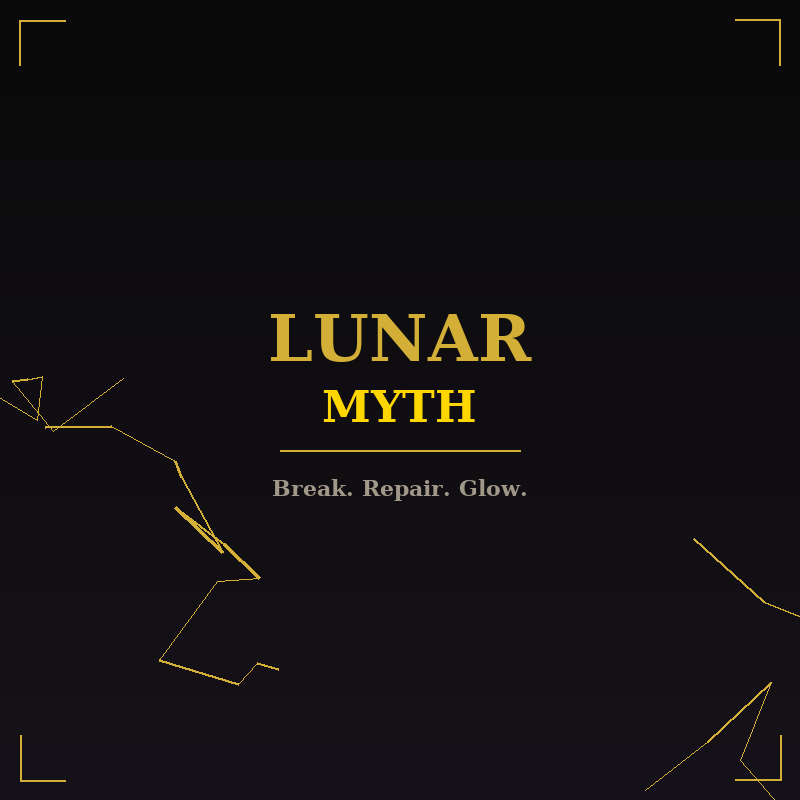
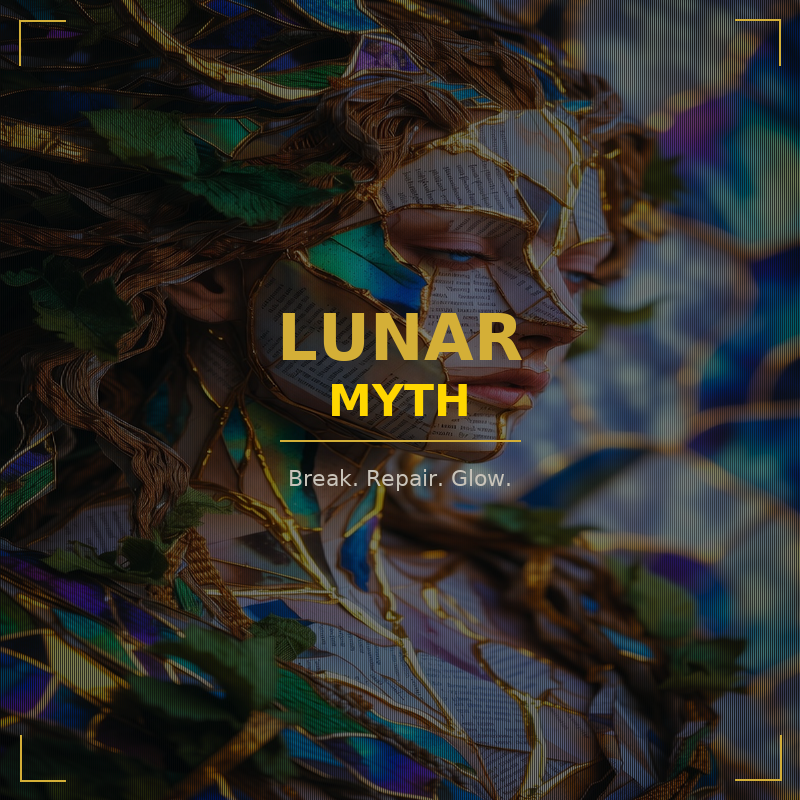
feat: regenerate covers with real reference art + gallery images in tier bundles
- Replaced all covers in covers/ with versions using bible-image-refs/ artwork
- Added gallery/ folder with 25 showcase images for product previews
- Updated tier ZIPs to include gallery images:
  - Seed: 5 gallery images
  - Full Moon: all gallery images
  - Celestial: all gallery images
- New tier sizes: Seed 6.0MB, Full Moon 17.2MB, Celestial 17.2MB

diff --git a/gumroad-bundle/generate-covers-from-refs.py b/gumroad-bundle/generate-covers-from-refs.py
@@ -1,0 +1,314 @@
+#!/usr/bin/env python3
+"""Generate branded covers using actual reference images."""
+
+from PIL import Image, ImageDraw, ImageFont, ImageEnhance, ImageFilter
+import random
+import os
+
+random.seed(42)
+
+REF_DIR = "../bible-image-refs"
+OUT_DIR = "covers-with-refs"
+os.makedirs(OUT_DIR, exist_ok=True)
+
+GOLD = (212, 175, 55)
+GOLD_LIGHT = (255, 215, 0)
+CREAM = (245, 245, 220)
+TEXT_DIM = (200, 195, 185)
+DARK_OVERLAY = (10, 10, 10)
+
+
+def get_font(style, size):
+    paths = {
+        "bold": [
+            "/usr/share/fonts/truetype/dejavu/DejaVuSans-Bold.ttf",
+            "/usr/share/fonts/truetype/liberation/LiberationSans-Bold.ttf",
+        ],
+        "regular": [
+            "/usr/share/fonts/truetype/dejavu/DejaVuSans.ttf",
+            "/usr/share/fonts/truetype/liberation/LiberationSans-Regular.ttf",
+        ],
+        "italic": [
+            "/usr/share/fonts/truetype/dejavu/DejaVuSansMono-Oblique.ttf",
+            "/usr/share/fonts/truetype/liberation/LiberationSans-Italic.ttf",
+        ],
+    }
+    for p in paths.get(style, paths["regular"]):
+        if os.path.exists(p):
+            try:
+                return ImageFont.truetype(p, size)
+            except:
+                pass
+    return ImageFont.load_default()
+
+
+def load_random_ref(size=None):
+    """Load a random reference image, optionally resize."""
+    refs = [f for f in os.listdir(REF_DIR) if f.endswith('.jpg')]
+    ref_path = os.path.join(REF_DIR, random.choice(refs))
+    img = Image.open(ref_path).convert('RGB')
+    if size:
+        img = img.resize(size, Image.LANCZOS)
+    return img
+
+
+def add_dark_gradient(img, direction='bottom'):
+    """Add a dark gradient overlay for text readability."""
+    w, h = img.size
+    overlay = Image.new('RGBA', (w, h), (0, 0, 0, 0))
+    draw = ImageDraw.Draw(overlay)
+    
+    if direction == 'bottom':
+        for y in range(h):
+            alpha = int(180 * (y / h) ** 2)  # stronger at bottom
+            draw.line([(0, y), (w, y)], fill=(*DARK_OVERLAY, alpha))
+    elif direction == 'center':
+        mid = h // 2
+        for y in range(h):
+            dist = abs(y - mid) / mid
+            alpha = int(120 * (1 - dist))
+            draw.line([(0, y), (w, y)], fill=(*DARK_OVERLAY, alpha))
+    elif direction == 'top':
+        for y in range(h):
+            alpha = int(180 * ((h - y) / h) ** 2)
+            draw.line([(0, y), (w, y)], fill=(*DARK_OVERLAY, alpha))
+    elif direction == 'vignette':
+        cx, cy = w // 2, h // 2
+        max_dist = max(cx, cy)
+        for y in range(h):
+            for x in range(0, w, 2):  # step 2 for speed
+                dist = ((x - cx) ** 2 + (y - cy) ** 2) ** 0.5
+                alpha = int(160 * (dist / max_dist) ** 1.5)
+                if alpha > 0:
+                    draw.point((x, y), fill=(*DARK_OVERLAY, min(alpha, 200)))
+    
+    return Image.alpha_composite(img.convert('RGBA'), overlay).convert('RGB')
+
+
+def draw_text_with_glow(draw, text, pos, font, fill, glow_color=(212, 175, 55), glow_radius=3):
+    """Draw text with subtle glow effect."""
+    x, y = pos
+    # Glow layers
+    for r in range(glow_radius, 0, -1):
+        alpha = int(80 * (r / glow_radius))
+        glow_img = Image.new('RGBA', (w := draw.im.size[0], h := draw.im.size[1]), (0, 0, 0, 0))
+        glow_draw = ImageDraw.Draw(glow_img)
+        glow_draw.text((x, y), text, font=font, fill=(*glow_color, alpha))
+        glow_img = glow_img.filter(ImageFilter.GaussianBlur(radius=r * 2))
+        # Composite glow under text happens implicitly since we draw text on top
+    draw.text((x, y), text, fill=fill, font=font)
+
+
+def generate_book_cover():
+    """800x1200 book cover with real art background."""
+    w, h = 800, 1200
+    img = load_random_ref((w, h))
+    
+    # Darken for text
+    enhancer = ImageEnhance.Brightness(img)
+    img = enhancer.enhance(0.6)
+    img = add_dark_gradient(img, 'bottom')
+    
+    draw = ImageDraw.Draw(img)
+    
+    # Corner brackets
+    s = 50
+    t = 2
+    draw.line([(20, 20 + s), (20, 20), (20 + s, 20)], fill=GOLD, width=t)
+    draw.line([(w - 20, 20 + s), (w - 20, 20), (w - 20 - s, 20)], fill=GOLD, width=t)
+    draw.line([(20, h - 20 - s), (20, h - 20), (20 + s, h - 20)], fill=GOLD, width=t)
+    draw.line([(w - 20, h - 20 - s), (w - 20, h - 20), (w - 20 - s, h - 20)], fill=GOLD, width=t)
+    
+    title_font = get_font("bold", 54)
+    subtitle_font = get_font("bold", 36)
+    tag_font = get_font("regular", 22)
+    creator_font = get_font("regular", 20)
+    small_font = get_font("regular", 18)
+    
+    # Title
+    title = "LUNAR MYTH"
+    bbox = draw.textbbox((0, 0), title, font=title_font)
+    tw = bbox[2] - bbox[0]
+    draw.text(((w - tw) // 2, 340), title, fill=GOLD, font=title_font)
+    
+    subtitle = "KINTSUGI BIBLE"
+    bbox = draw.textbbox((0, 0), subtitle, font=subtitle_font)
+    tw = bbox[2] - bbox[0]
+    draw.text(((w - tw) // 2, 410), subtitle, fill=GOLD_LIGHT, font=subtitle_font)
+    
+    # Line
+    draw.line([(w // 2 - 140, 470), (w // 2 + 140, 470)], fill=GOLD, width=2)
+    
+    tagline = "357+ Hyper-Tactile Mythpunk Prompts"
+    bbox = draw.textbbox((0, 0), tagline, font=tag_font)
+    tw = bbox[2] - bbox[0]
+    draw.text(((w - tw) // 2, 500), tagline, fill=TEXT_DIM, font=tag_font)
+    
+    tagline2 = "& Complete Collage System"
+    bbox = draw.textbbox((0, 0), tagline2, font=tag_font)
+    tw = bbox[2] - bbox[0]
+    draw.text(((w - tw) // 2, 530), tagline2, fill=TEXT_DIM, font=tag_font)
+    
+    creator = "By Jennipher Troup"
+    bbox = draw.textbbox((0, 0), creator, font=creator_font)
+    tw = bbox[2] - bbox[0]
+    draw.text(((w - tw) // 2, 600), creator, fill=GOLD, font=creator_font)
+    
+    bottom = "Break. Repair. Glow. Repeat."
+    bbox = draw.textbbox((0, 0), bottom, font=small_font)
+    tw = bbox[2] - bbox[0]
+    draw.text(((w - tw) // 2, h - 90), bottom, fill=TEXT_DIM, font=small_font)
+    
+    return img
+
+
+def generate_thumbnail():
+    """800x800 square thumbnail."""
+    w, h = 800, 800
+    img = load_random_ref((w, h))
+    
+    enhancer = ImageEnhance.Brightness(img)
+    img = enhancer.enhance(0.5)
+    img = add_dark_gradient(img, 'vignette')
+    
+    draw = ImageDraw.Draw(img)
+    
+    s = 45
+    t = 2
+    draw.line([(20, 20 + s), (20, 20), (20 + s, 20)], fill=GOLD, width=t)
+    draw.line([(w - 20, 20 + s), (w - 20, 20), (w - 20 - s, 20)], fill=GOLD, width=t)
+    draw.line([(20, h - 20 - s), (20, h - 20), (20 + s, h - 20)], fill=GOLD, width=t)
+    draw.line([(w - 20, h - 20 - s), (w - 20, h - 20), (w - 20 - s, h - 20)], fill=GOLD, width=t)
+    
+    title_font = get_font("bold", 64)
+    sub_font = get_font("bold", 44)
+    tag_font = get_font("regular", 22)
+    
+    title = "LUNAR"
+    bbox = draw.textbbox((0, 0), title, font=title_font)
+    tw = bbox[2] - bbox[0]
+    draw.text(((w - tw) // 2, 300), title, fill=GOLD, font=title_font)
+    
+    subtitle = "MYTH"
+    bbox = draw.textbbox((0, 0), subtitle, font=sub_font)
+    tw = bbox[2] - bbox[0]
+    draw.text(((w - tw) // 2, 375), subtitle, fill=GOLD_LIGHT, font=sub_font)
+    
+    draw.line([(w // 2 - 120, 440), (w // 2 + 120, 440)], fill=GOLD, width=2)
+    
+    tag = "Break. Repair. Glow."
+    bbox = draw.textbbox((0, 0), tag, font=tag_font)
+    tw = bbox[2] - bbox[0]
+    draw.text(((w - tw) // 2, 465), tag, fill=TEXT_DIM, font=tag_font)
+    
+    return img
+
+
+def generate_banner():
+    """1200x400 wide banner."""
+    w, h = 1200, 400
+    img = load_random_ref((w, h))
+    
+    enhancer = ImageEnhance.Brightness(img)
+    img = enhancer.enhance(0.5)
+    img = add_dark_gradient(img, 'center')
+    
+    draw = ImageDraw.Draw(img)
+    
+    s = 35
+    t = 2
+    draw.line([(20, 20 + s), (20, 20), (20 + s, 20)], fill=GOLD, width=t)
+    draw.line([(w - 20, 20 + s), (w - 20, 20), (w - 20 - s, 20)], fill=GOLD, width=t)
+    draw.line([(20, h - 20 - s), (20, h - 20), (20 + s, h - 20)], fill=GOLD, width=t)
+    draw.line([(w - 20, h - 20 - s), (w - 20, h - 20), (w - 20 - s, h - 20)], fill=GOLD, width=t)
+    
+    title_font = get_font("bold", 42)
+    sub_font = get_font("bold", 26)
+    tag_font = get_font("regular", 17)
+    
+    title = "LUNAR MYTH KINTSUGI BIBLE"
+    bbox = draw.textbbox((0, 0), title, font=title_font)
+    tw = bbox[2] - bbox[0]
+    draw.text(((w - tw) // 2, 130), title, fill=GOLD, font=title_font)
+    
+    subtitle = "The Complete Creative System"
+    bbox = draw.textbbox((0, 0), subtitle, font=sub_font)
+    tw = bbox[2] - bbox[0]
+    draw.text(((w - tw) // 2, 185), subtitle, fill=GOLD_LIGHT, font=sub_font)
+    
+    draw.line([(w // 2 - 180, 230), (w // 2 + 180, 230)], fill=GOLD, width=2)
+    
+    tag = "By Jennipher Troup  --  357+ Prompts  --  Break. Repair. Glow. Repeat."
+    bbox = draw.textbbox((0, 0), tag, font=tag_font)
+    tw = bbox[2] - bbox[0]
+    draw.text(((w - tw) // 2, 250), tag, fill=TEXT_DIM, font=tag_font)
+    
+    return img
+
+
+def generate_tier_badge(tier_name, price, color):
+    """400x400 tier badge with art background."""
+    w, h = 400, 400
+    img = load_random_ref((w, h))
+    
+    enhancer = ImageEnhance.Brightness(img)
+    img = enhancer.enhance(0.4)
+    img = add_dark_gradient(img, 'vignette')
+    
+    draw = ImageDraw.Draw(img)
+    
+    draw.rectangle([15, 15, w - 15, h - 15], outline=(*color, 150), width=2)
+    
+    s = 28
+    t = 2
+    draw.line([(20, 20 + s), (20, 20), (20 + s, 20)], fill=color, width=t)
+    draw.line([(w - 20, 20 + s), (w - 20, 20), (w - 20 - s, 20)], fill=color, width=t)
+    draw.line([(20, h - 20 - s), (20, h - 20), (20 + s, h - 20)], fill=color, width=t)
+    draw.line([(w - 20, h - 20 - s), (w - 20, h - 20), (w - 20 - s, h - 20)], fill=color, width=t)
+    
+    tier_font = get_font("bold", 24)
+    price_font = get_font("bold", 48)
+    name_font = get_font("regular", 19)
+    
+    emoji = "Seed" if "Seed" in tier_name else "Full" if "Full" in tier_name else "Celestial"
+    tname = f"{emoji} {tier_name}"
+    bbox = draw.textbbox((0, 0), tname, font=name_font)
+    tw = bbox[2] - bbox[0]
+    draw.text(((w - tw) // 2, 110), tname, fill=color, font=name_font)
+    
+    bbox = draw.textbbox((0, 0), price, font=price_font)
+    tw = bbox[2] - bbox[0]
+    draw.text(((w - tw) // 2, 155), price, fill=CREAM, font=price_font)
+    
+    draw.line([(w // 2 - 55, 220), (w // 2 + 55, 220)], fill=(*color, 120), width=2)
+    
+    cta = "Get Access"
+    bbox = draw.textbbox((0, 0), cta, font=tier_font)
+    tw = bbox[2] - bbox[0]
+    draw.text(((w - tw) // 2, 243), cta, fill=color, font=tier_font)
+    
+    return img
+
+
+if __name__ == "__main__":
+    print("Generating covers with real reference art...")
+    
+    generate_book_cover().save(os.path.join(OUT_DIR, "cover-book-800x1200.png"))
+    print("  Book cover")
+    
+    generate_thumbnail().save(os.path.join(OUT_DIR, "thumbnail-800x800.png"))
+    print("  Thumbnail")
+    
+    generate_banner().save(os.path.join(OUT_DIR, "banner-1200x400.png"))
+    print("  Banner")
+    
+    generate_tier_badge("Seed Tier", "$37", GOLD).save(os.path.join(OUT_DIR, "tier-seed-400x400.png"))
+    print("  Seed badge")
+    
+    generate_tier_badge("Full Moon", "$67", GOLD_LIGHT).save(os.path.join(OUT_DIR, "tier-fullmoon-400x400.png"))
+    print("  Full Moon badge")
+    
+    generate_tier_badge("Celestial", "$127", (32, 178, 170)).save(os.path.join(OUT_DIR, "tier-celestial-400x400.png"))
+    print("  Celestial badge")
+    
+    print(f"\nDone! Saved to {OUT_DIR}/")

diff --git a/gumroad-bundle/repackage-tiers.py b/gumroad-bundle/repackage-tiers.py
@@ -1,0 +1,73 @@
+#!/usr/bin/env python3
+"""Repackage tier ZIPs with new covers + gallery images"""
+
+import zipfile, os, glob, random
+
+base = "/home/wildfiremelody/lunar-myth-kintsugi-bible/gumroad-bundle"
+
+# Clean old zips
+for f in glob.glob(f"{base}/tier-zips/*.zip"):
+    os.remove(f)
+    print(f"Removed old: {os.path.basename(f)}")
+
+random.seed(42)
+
+all_prompts = sorted(glob.glob(f"{base}/prompts/*.txt"))
+all_textures = sorted(glob.glob(f"{base}/textures/*"))
+all_gallery = sorted(glob.glob(f"{base}/gallery/*.jpg"))
+
+os.makedirs(f"{base}/tier-zips", exist_ok=True)
+
+# Seed Tier ($37): covers, quickstart, 1 prompt pack, 5 textures, 5 gallery
+with zipfile.ZipFile(f"{base}/tier-zips/lunar-myth-kintsugi-bible-seed.zip", 'w', zipfile.ZIP_DEFLATED) as zf:
+    for f in glob.glob(f"{base}/covers/*"):
+        zf.write(f, f"covers/{os.path.basename(f)}")
+    zf.write(f"{base}/pdfs/README_Quickstart.pdf", "pdfs/README_Quickstart.pdf")
+    if all_prompts:
+        zf.write(all_prompts[0], f"prompts/{os.path.basename(all_prompts[0])}")
+    for f in random.sample(all_textures, min(5, len(all_textures))):
+        zf.write(f, f"textures/{os.path.basename(f)}")
+    for f in random.sample(all_gallery, min(5, len(all_gallery))):
+        zf.write(f, f"gallery/{os.path.basename(f)}")
+
+seed_size = os.path.getsize(f"{base}/tier-zips/lunar-myth-kintsugi-bible-seed.zip")
+print(f"Seed tier: {seed_size/1024/1024:.2f} MB")
+
+# Full Moon Tier ($67): Everything except LoRA notebook
+with zipfile.ZipFile(f"{base}/tier-zips/lunar-myth-kintsugi-bible-fullmoon.zip", 'w', zipfile.ZIP_DEFLATED) as zf:
+    for f in glob.glob(f"{base}/covers/*"):
+        zf.write(f, f"covers/{os.path.basename(f)}")
+    for f in glob.glob(f"{base}/pdfs/*.pdf"):
+        zf.write(f, f"pdfs/{os.path.basename(f)}")
+    for f in all_prompts:
+        zf.write(f, f"prompts/{os.path.basename(f)}")
+    for f in all_textures:
+        zf.write(f, f"textures/{os.path.basename(f)}")
+    for f in all_gallery:
+        zf.write(f, f"gallery/{os.path.basename(f)}")
+    for f in glob.glob(f"{base}/workflows/*.json"):
+        zf.write(f, f"workflows/{os.path.basename(f)}")
+
+fullmoon_size = os.path.getsize(f"{base}/tier-zips/lunar-myth-kintsugi-bible-fullmoon.zip")
+print(f"Full Moon tier: {fullmoon_size/1024/1024:.2f} MB")
+
+# Celestial Tier ($127): Everything including LoRA notebook
+with zipfile.ZipFile(f"{base}/tier-zips/lunar-myth-kintsugi-bible-celestial.zip", 'w', zipfile.ZIP_DEFLATED) as zf:
+    for f in glob.glob(f"{base}/covers/*"):
+        zf.write(f, f"covers/{os.path.basename(f)}")
+    for f in glob.glob(f"{base}/pdfs/*.pdf"):
+        zf.write(f, f"pdfs/{os.path.basename(f)}")
+    for f in all_prompts:
+        zf.write(f, f"prompts/{os.path.basename(f)}")
+    for f in all_textures:
+        zf.write(f, f"textures/{os.path.basename(f)}")
+    for f in all_gallery:
+        zf.write(f, f"gallery/{os.path.basename(f)}")
+    for f in glob.glob(f"{base}/workflows/*.json"):
+        zf.write(f, f"workflows/{os.path.basename(f)}")
+    zf.write(f"{base}/Kohya_SS_LoRA_Training.ipynb", "Kohya_SS_LoRA_Training.ipynb")
+
+celestial_size = os.path.getsize(f"{base}/tier-zips/lunar-myth-kintsugi-bible-celestial.zip")
+print(f"Celestial tier: {celestial_size/1024/1024:.2f} MB")
+
+print("\nAll tiers repackaged!")